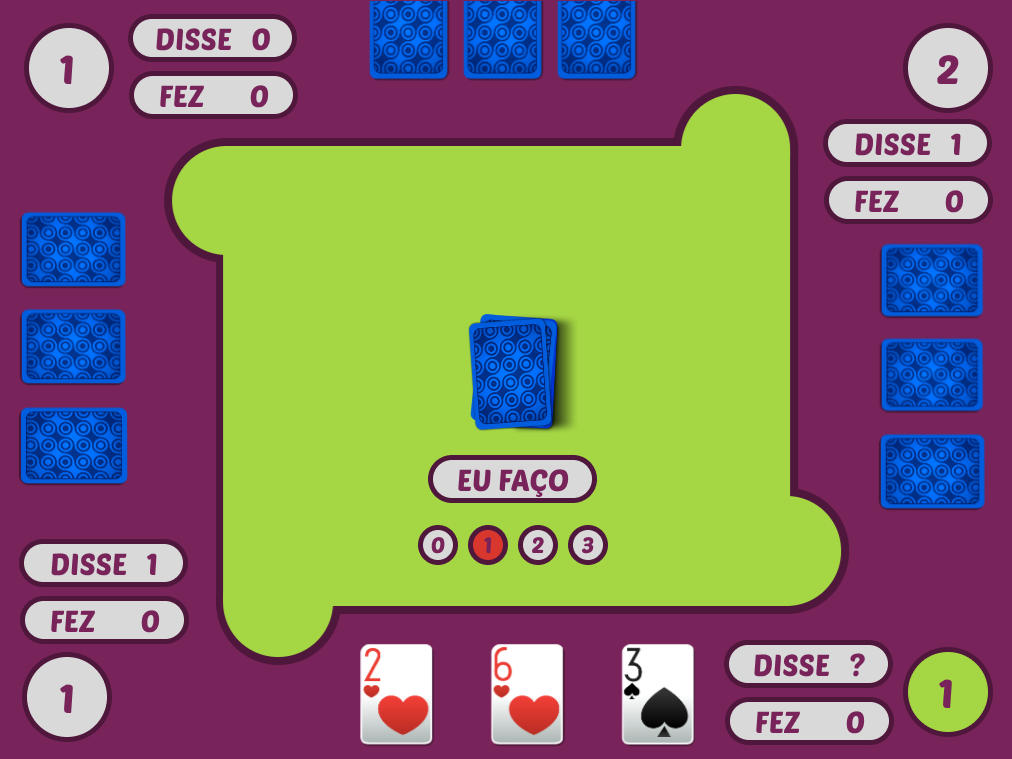
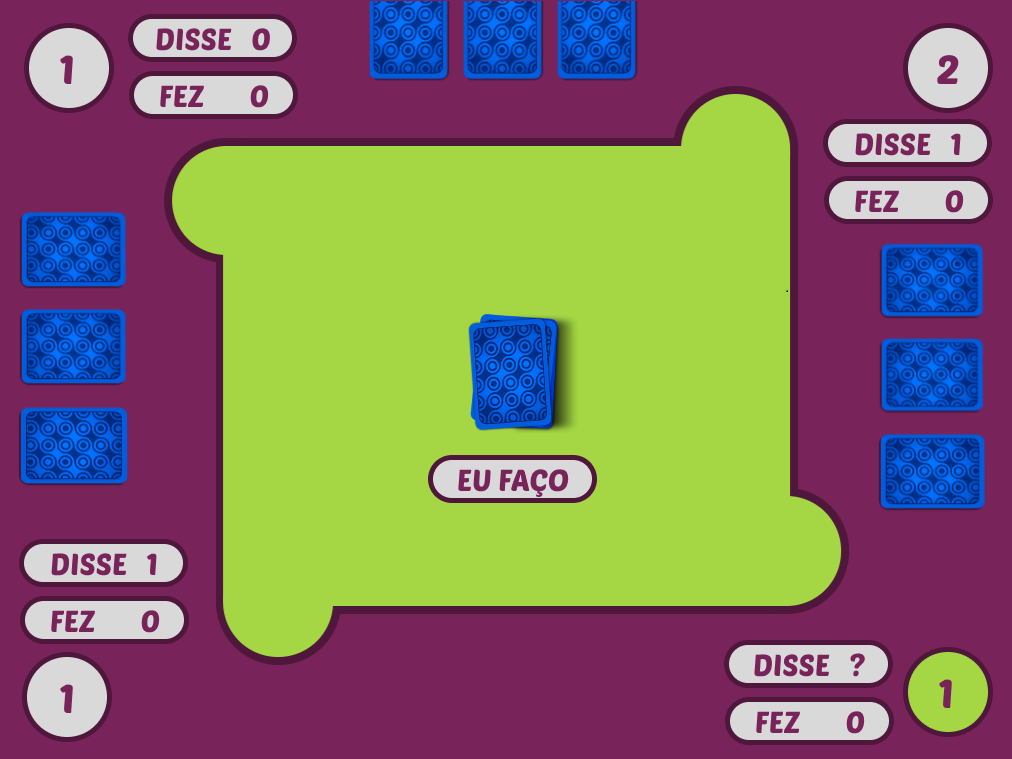
finalizada demonstração de interface

diff --git a/interface/main.py b/interface/main.py
@@ -2,32 +2,46 @@ from tkinter import *
 from PIL import Image, ImageTk
 
 def quantas_faz(pontos):
+    
+    if pontos != 1:
 
-    label_quadrado_verde.place(x=320, y=445)
+        label_quadrado_verde.place(x=310, y=450)
 
-    if pontos == 0:
-        label_zero_pontos.place(x=845, y=649)
-    elif pontos == 2:
-        label_dois_pontos.place(x=845, y=649)
-    elif pontos == 3:
-        label_tres_pontos.place(x=845, y=649)
+        if pontos == 0:
+            label_disse_0.place(x=845, y=649)
+        elif pontos == 2:
+            label_disse_2.place(x=845, y=649)
+        elif pontos == 3:
+            label_disse_3.place(x=845, y=649)
 
-    carta_1.place(x=360, y=644)
-    carta_2.place(x=491, y=644)
-    carta_3.place(x=621, y=644)
+        carta_1.place(x=360, y=644)
+        carta_2.place(x=491, y=644)
+        carta_3.place(x=621, y=644)
 
 def jogar_carta(carta):
+    
     if carta == 1:
-        print("Joguei a carta", carta)
-    if carta == 2:
-        print("Joguei a carta", carta)
-    if carta == 3:
-        print("Joguei a carta", carta)
+        carta_1.place(x=621, y=450)
+        carta_2["state"] = "disabled"
+        carta_3["state"] = "disabled"
+    elif carta == 2:
+        carta_2.place(x=621, y=450)
+        carta_1["state"] = "disabled"
+        carta_3["state"] = "disabled"
+    elif carta == 3:
+        carta_3.place(x=621, y=450)
+        carta_1["state"] = "disabled"
+        carta_2["state"] = "disabled"
+
+    label_off_1.place(x=903, y=647)
+    label_on_2.place(x=903, y=22)
 
 #Crianddo a janela principal
 janela = Tk()
 janela.geometry("1012x759")
+janela.resizable(False, False)
 janela.title("Interface Filho da Puta")
+janela.iconbitmap("interface/assets/icone.ico")
 
 #Configurando a imagem de fundo
 mesa = PhotoImage(file="interface/assets/mesa-interface.png")
@@ -35,30 +49,47 @@ label_mesa = Label(janela, image=mesa)
 label_mesa.place(x=0, y=0, relwidth=1, relheight=1)
 
 #Configurando quantas_faz
-faco_0 = Button(janela, command=lambda: quantas_faz(0), height=2, width=4)
-faco_2 = Button(janela, command=lambda: quantas_faz(2), height=2, width=4)
-faco_3 = Button(janela, command=lambda: quantas_faz(3), height=2, width=4)
+imagem_botao_0 = ImageTk.PhotoImage(Image.open("interface/assets/botao-0.png"))
+imagem_botao_1 = ImageTk.PhotoImage(Image.open("interface/assets/botao-1.png"))
+imagem_botao_2 = ImageTk.PhotoImage(Image.open("interface/assets/botao-2.png"))
+imagem_botao_3 = ImageTk.PhotoImage(Image.open("interface/assets/botao-3.png"))
 
-faco_0.place(x=419, y=524)
-faco_2.place(x=519, y=524)
-faco_3.place(x=569, y=524)
+botao_0 = Button(janela, command=lambda: quantas_faz(0), height=40, width=40, image=imagem_botao_0, bd=0, bg="#A5D744")
+botao_1 = Button(janela, command=lambda: quantas_faz(1), height=40, width=40, image=imagem_botao_1, bd=0, bg="#A5D744")
+botao_2 = Button(janela, command=lambda: quantas_faz(2), height=40, width=40, image=imagem_botao_2, bd=0, bg="#A5D744")
+botao_3 = Button(janela, command=lambda: quantas_faz(3), height=40, width=40, image=imagem_botao_3, bd=0, bg="#A5D744")
+
+botao_0.place(x=419, y=524)
+botao_1.place(x=469, y=524)
+botao_2.place(x=519, y=524)
+botao_3.place(x=569, y=524)
 
 #Configurando jogar_carta
-carta_1 = Button(janela, command=lambda: jogar_carta(1), height=6, width=9)
-carta_2 = Button(janela, command=lambda: jogar_carta(2), height=6, width=9)
-carta_3 = Button(janela, command=lambda: jogar_carta(3), height=6, width=9)
+imagem_carta_1 = ImageTk.PhotoImage(Image.open("interface/assets/carta-1.png"))
+imagem_carta_2 = ImageTk.PhotoImage(Image.open("interface/assets/carta-2.png"))
+imagem_carta_3 = ImageTk.PhotoImage(Image.open("interface/assets/carta-3.png"))
 
-#Configurando imagens
+carta_1 = Button(janela, command=lambda: jogar_carta(1), width=73, height=102, image=imagem_carta_1, bd=3)
+carta_2 = Button(janela, command=lambda: jogar_carta(2), width=73, height=102, image=imagem_carta_2, bd=3)
+carta_3 = Button(janela, command=lambda: jogar_carta(3), width=73, height=102, image=imagem_carta_3, bd=3)
+
+#Configurando outros assets
 quadrado_verde = ImageTk.PhotoImage(Image.open("interface/assets/quadrado-verde.png"))
+off_1 = ImageTk.PhotoImage(Image.open("interface/assets/1-off.png"))
+on_2 = ImageTk.PhotoImage(Image.open("interface/assets/2-on.png"))
+
 label_quadrado_verde = Label(janela, image=quadrado_verde, bd=0)
+label_off_1 = Label(janela, image=off_1, bd=0)
+label_on_2 = Label(janela, image=on_2, bd=0)
 
-zero_pontos = ImageTk.PhotoImage(Image.open("interface/assets/0-pontos.png"))
-dois_pontos = ImageTk.PhotoImage(Image.open("interface/assets/2-pontos.png"))
-tres_pontos = ImageTk.PhotoImage(Image.open("interface/assets/3-pontos.png"))
+#Configurando disse
+disse_0 = ImageTk.PhotoImage(Image.open("interface/assets/disse-0.png"))
+disse_2 = ImageTk.PhotoImage(Image.open("interface/assets/disse-2.png"))
+disse_3 = ImageTk.PhotoImage(Image.open("interface/assets/disse-3.png"))
 
-label_zero_pontos = Label(janela, image=zero_pontos, bd=0)
-label_dois_pontos = Label(janela, image=dois_pontos, bd=0)
-label_tres_pontos = Label(janela, image=tres_pontos, bd=0)
+label_disse_0 = Label(janela, image=disse_0, bd=0)
+label_disse_2 = Label(janela, image=disse_2, bd=0)
+label_disse_3 = Label(janela, image=disse_3, bd=0)
 
 #Loop principal
 janela.mainloop()
